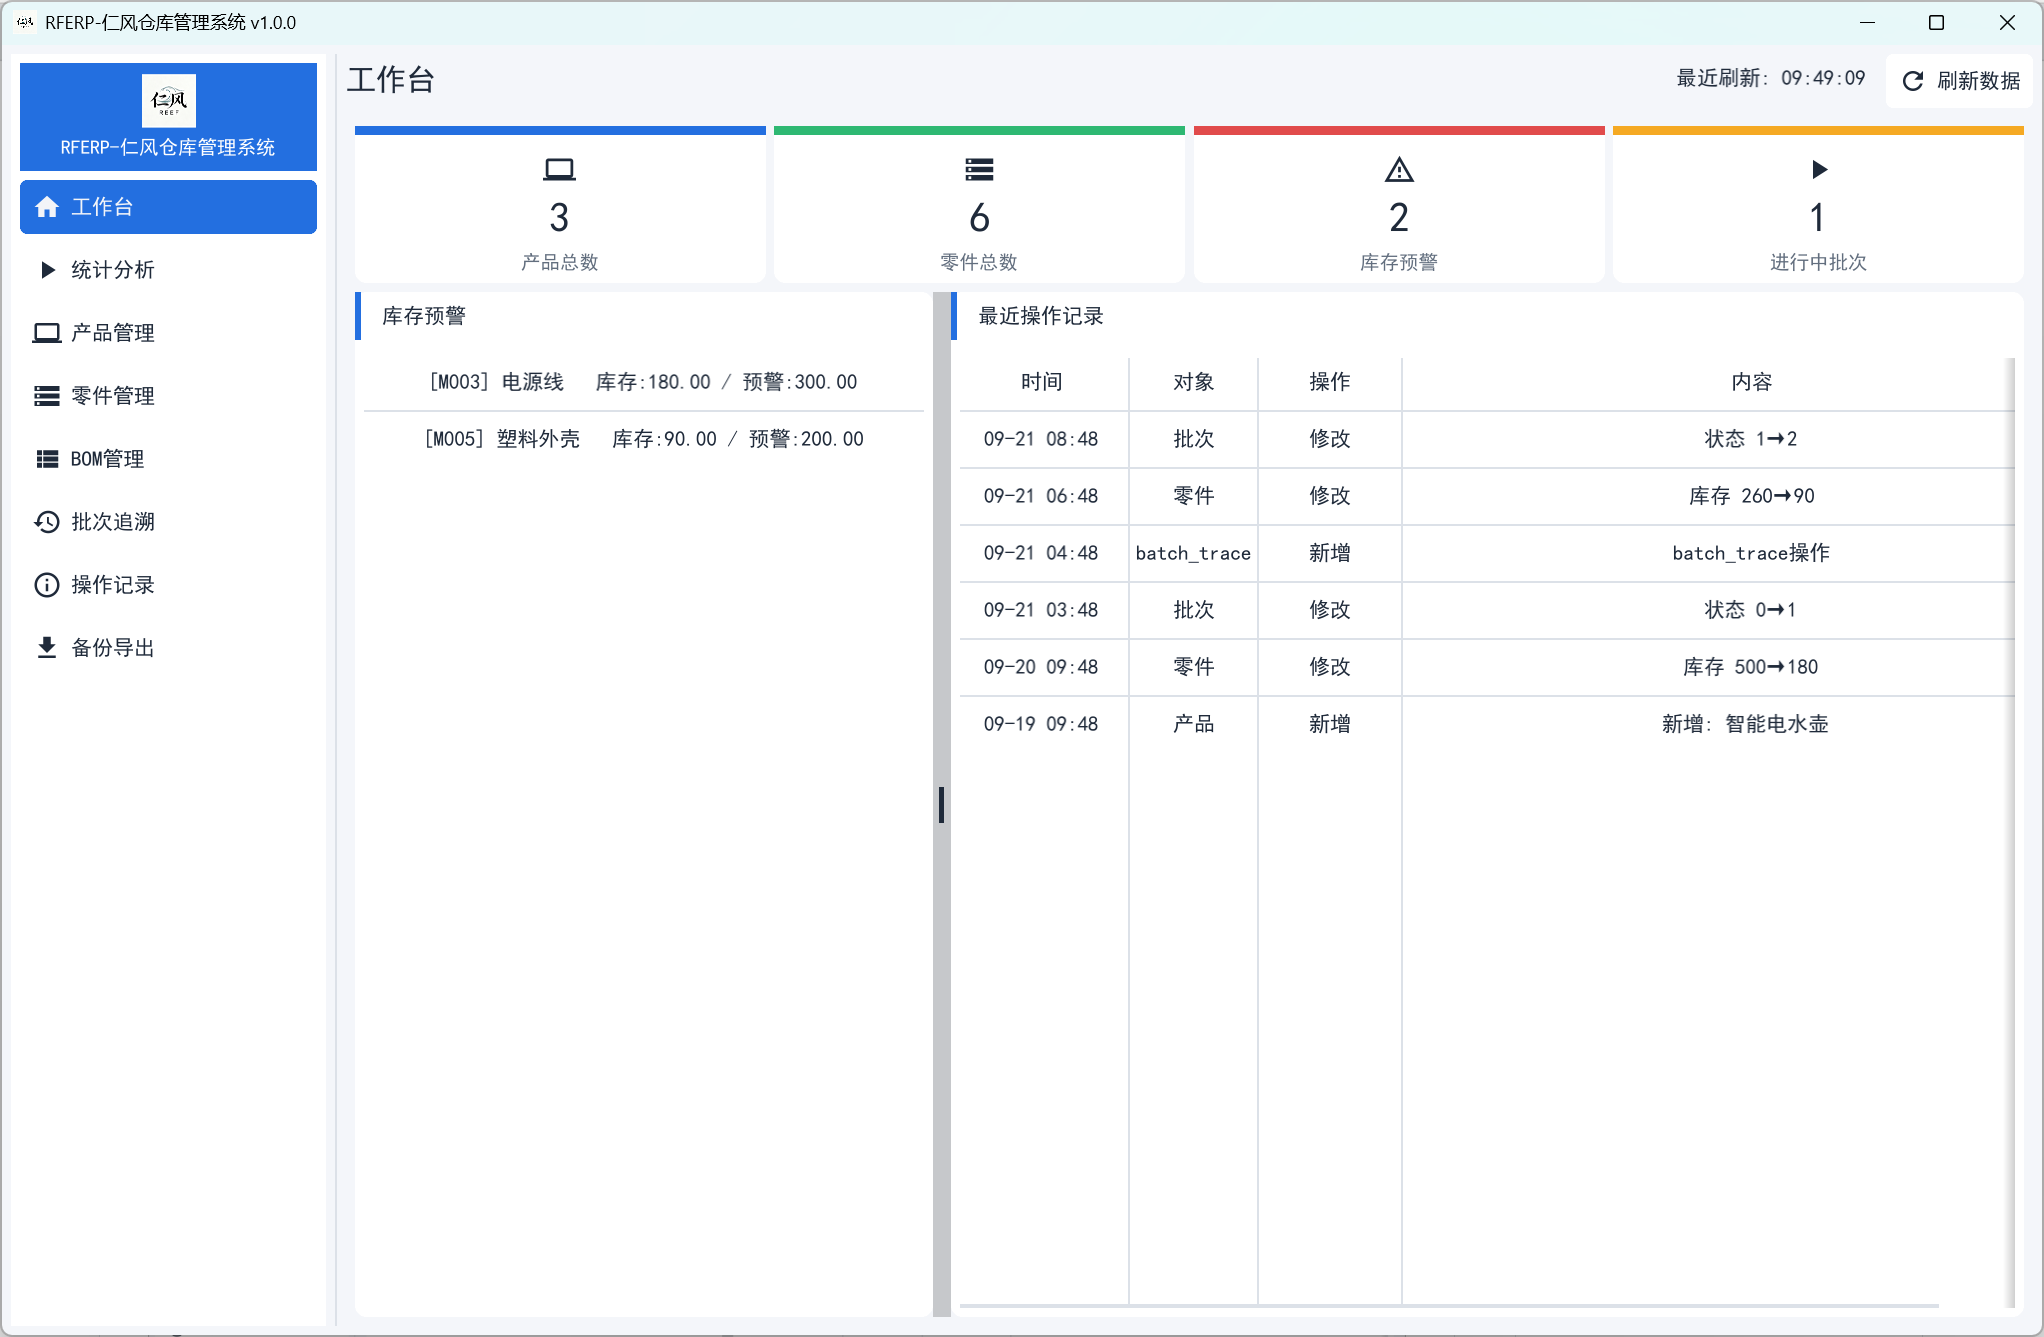
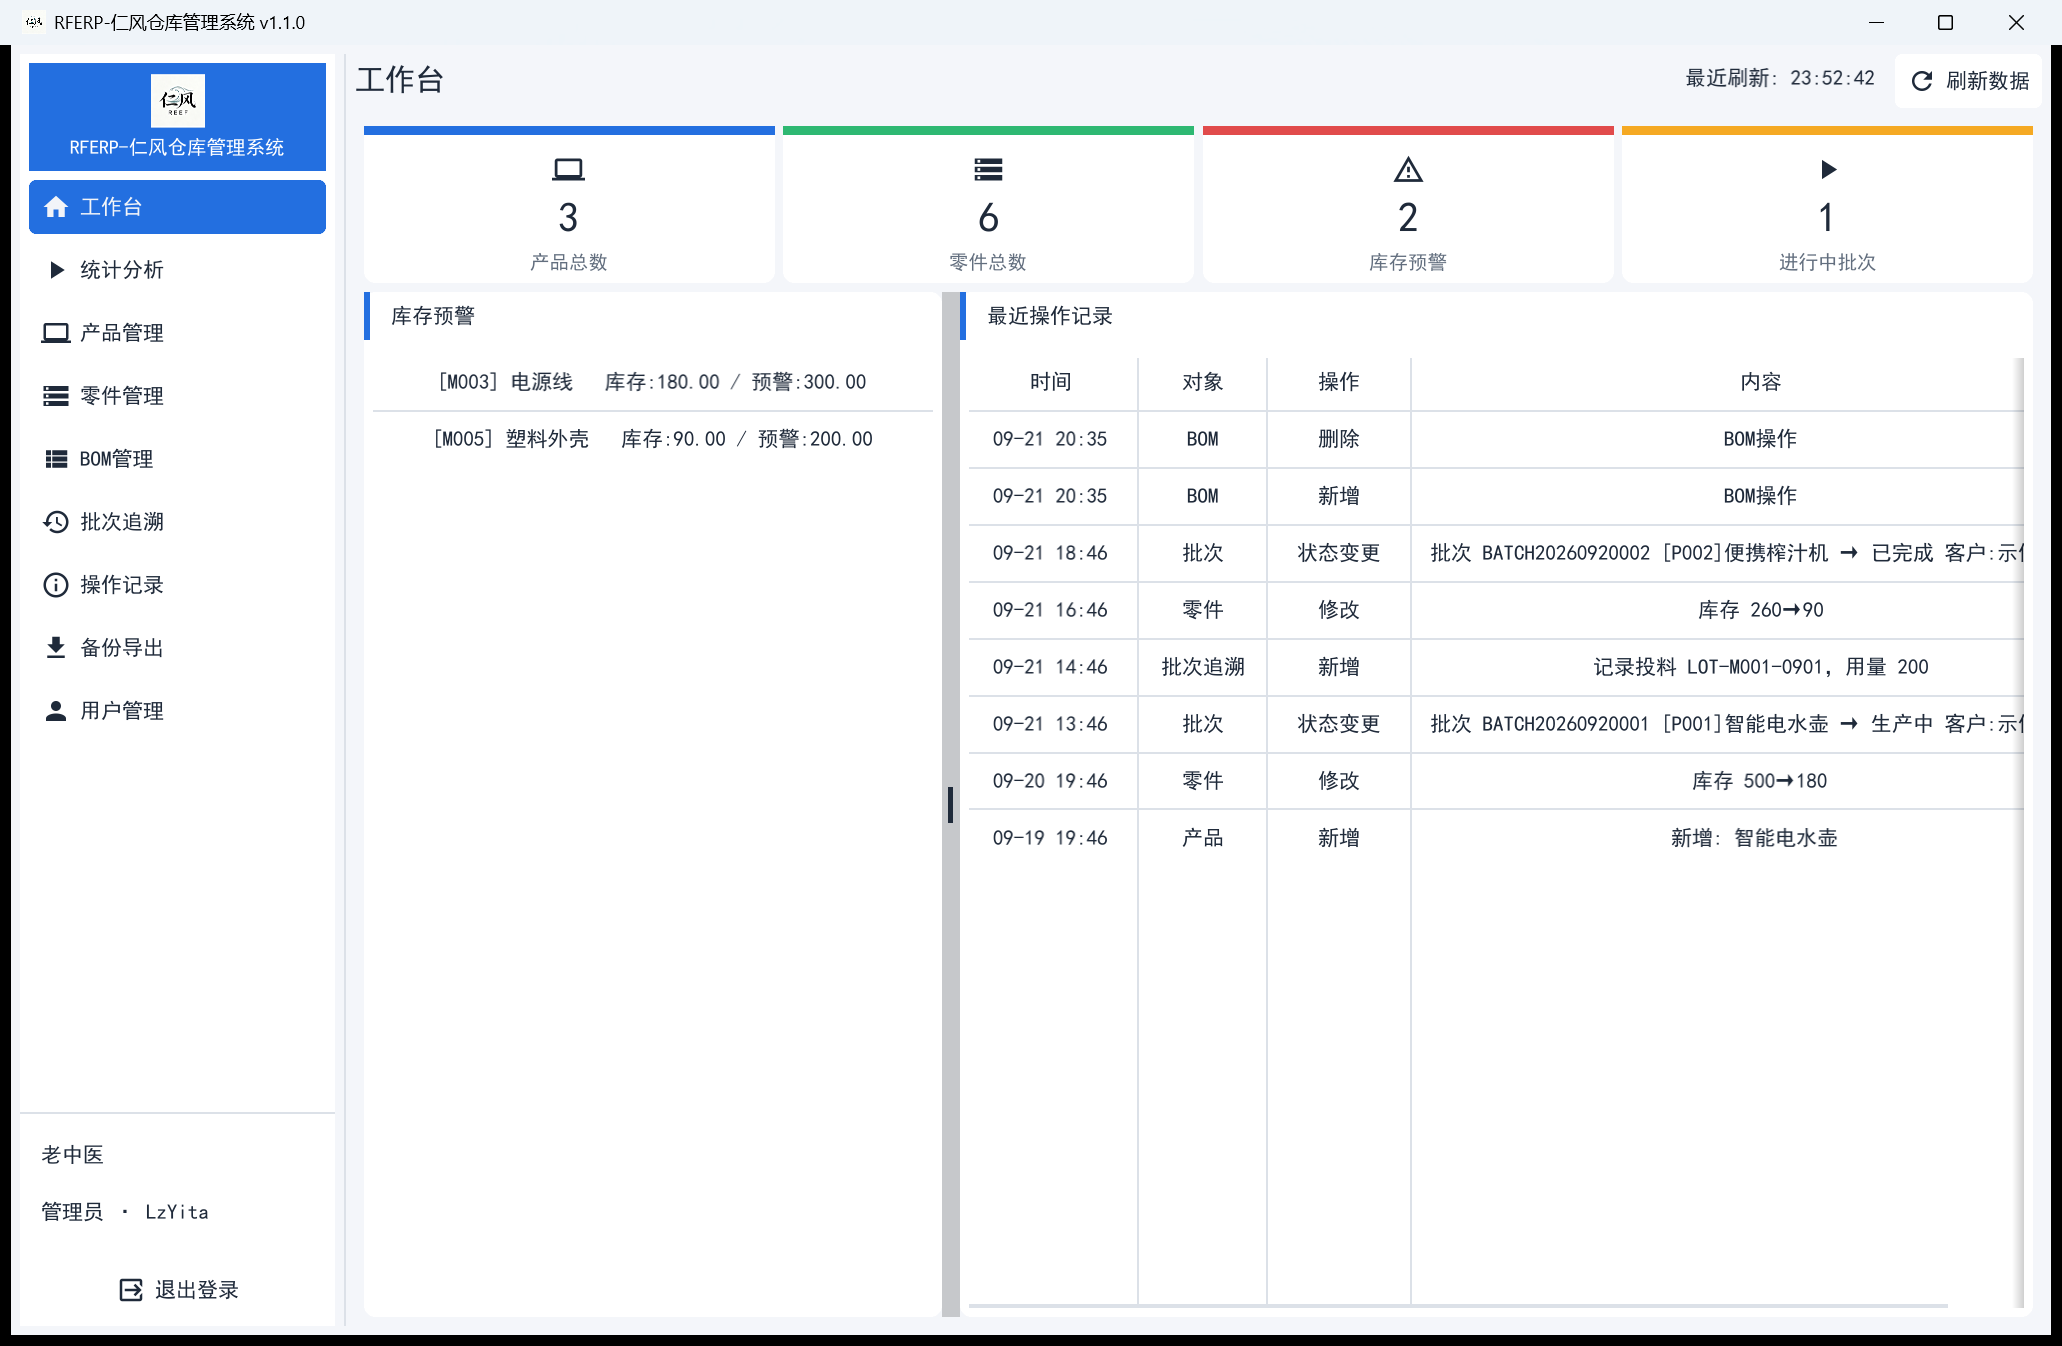
docs: update Go requirement to 1.26 and refresh README screenshot
- README (EN/ZH): Go requirement 1.22 -> 1.26, matching go.mod and the
  toolchain used by the release scripts and CI (go1.26.5)
- docs/screenshot.png: refreshed against v1.1.0, now showing the user
  management entry and the signed-in operator

diff --git a/README.md b/README.md
@@ -77,7 +77,7 @@ Once the database is ready, if there are no accounts yet, you are guided to crea
 | Item | Requirement |
 |---|---|
 | OS | Windows 10 / 11 (64-bit) |
-| Go | 1.22 or newer (latest stable recommended) |
+| Go | **1.26 or newer** (releases and CI are built with **go1.26.5**) |
 | C compiler | **64-bit mingw-w64 GCC** (required by CGO). **Verified: TDM-GCC 64-bit (10.3.0)**; other GCC distributions may fail to produce a runnable binary |
 | Inno Setup | 6 (only to build the installer) |
 
@@ -217,7 +217,7 @@ No open-source license is specified. Please contact the author before using, dis
 | 项 | 要求 |
 |---|---|
 | 操作系统 | Windows 10 / 11（64 位） |
-| Go | 1.22 或更高（建议使用最新稳定版） |
+| Go | **1.26 或更高**（发布与 CI 均使用 **go1.26.5** 构建） |
 | C 编译器 | **64 位 mingw-w64 GCC**（CGO 必需）。**已验证：TDM-GCC 64 位（10.3.0）**；其他 GCC 发行版可能无法生成可运行的程序 |
 | Inno Setup | 6（仅构建安装包时需要） |
 
